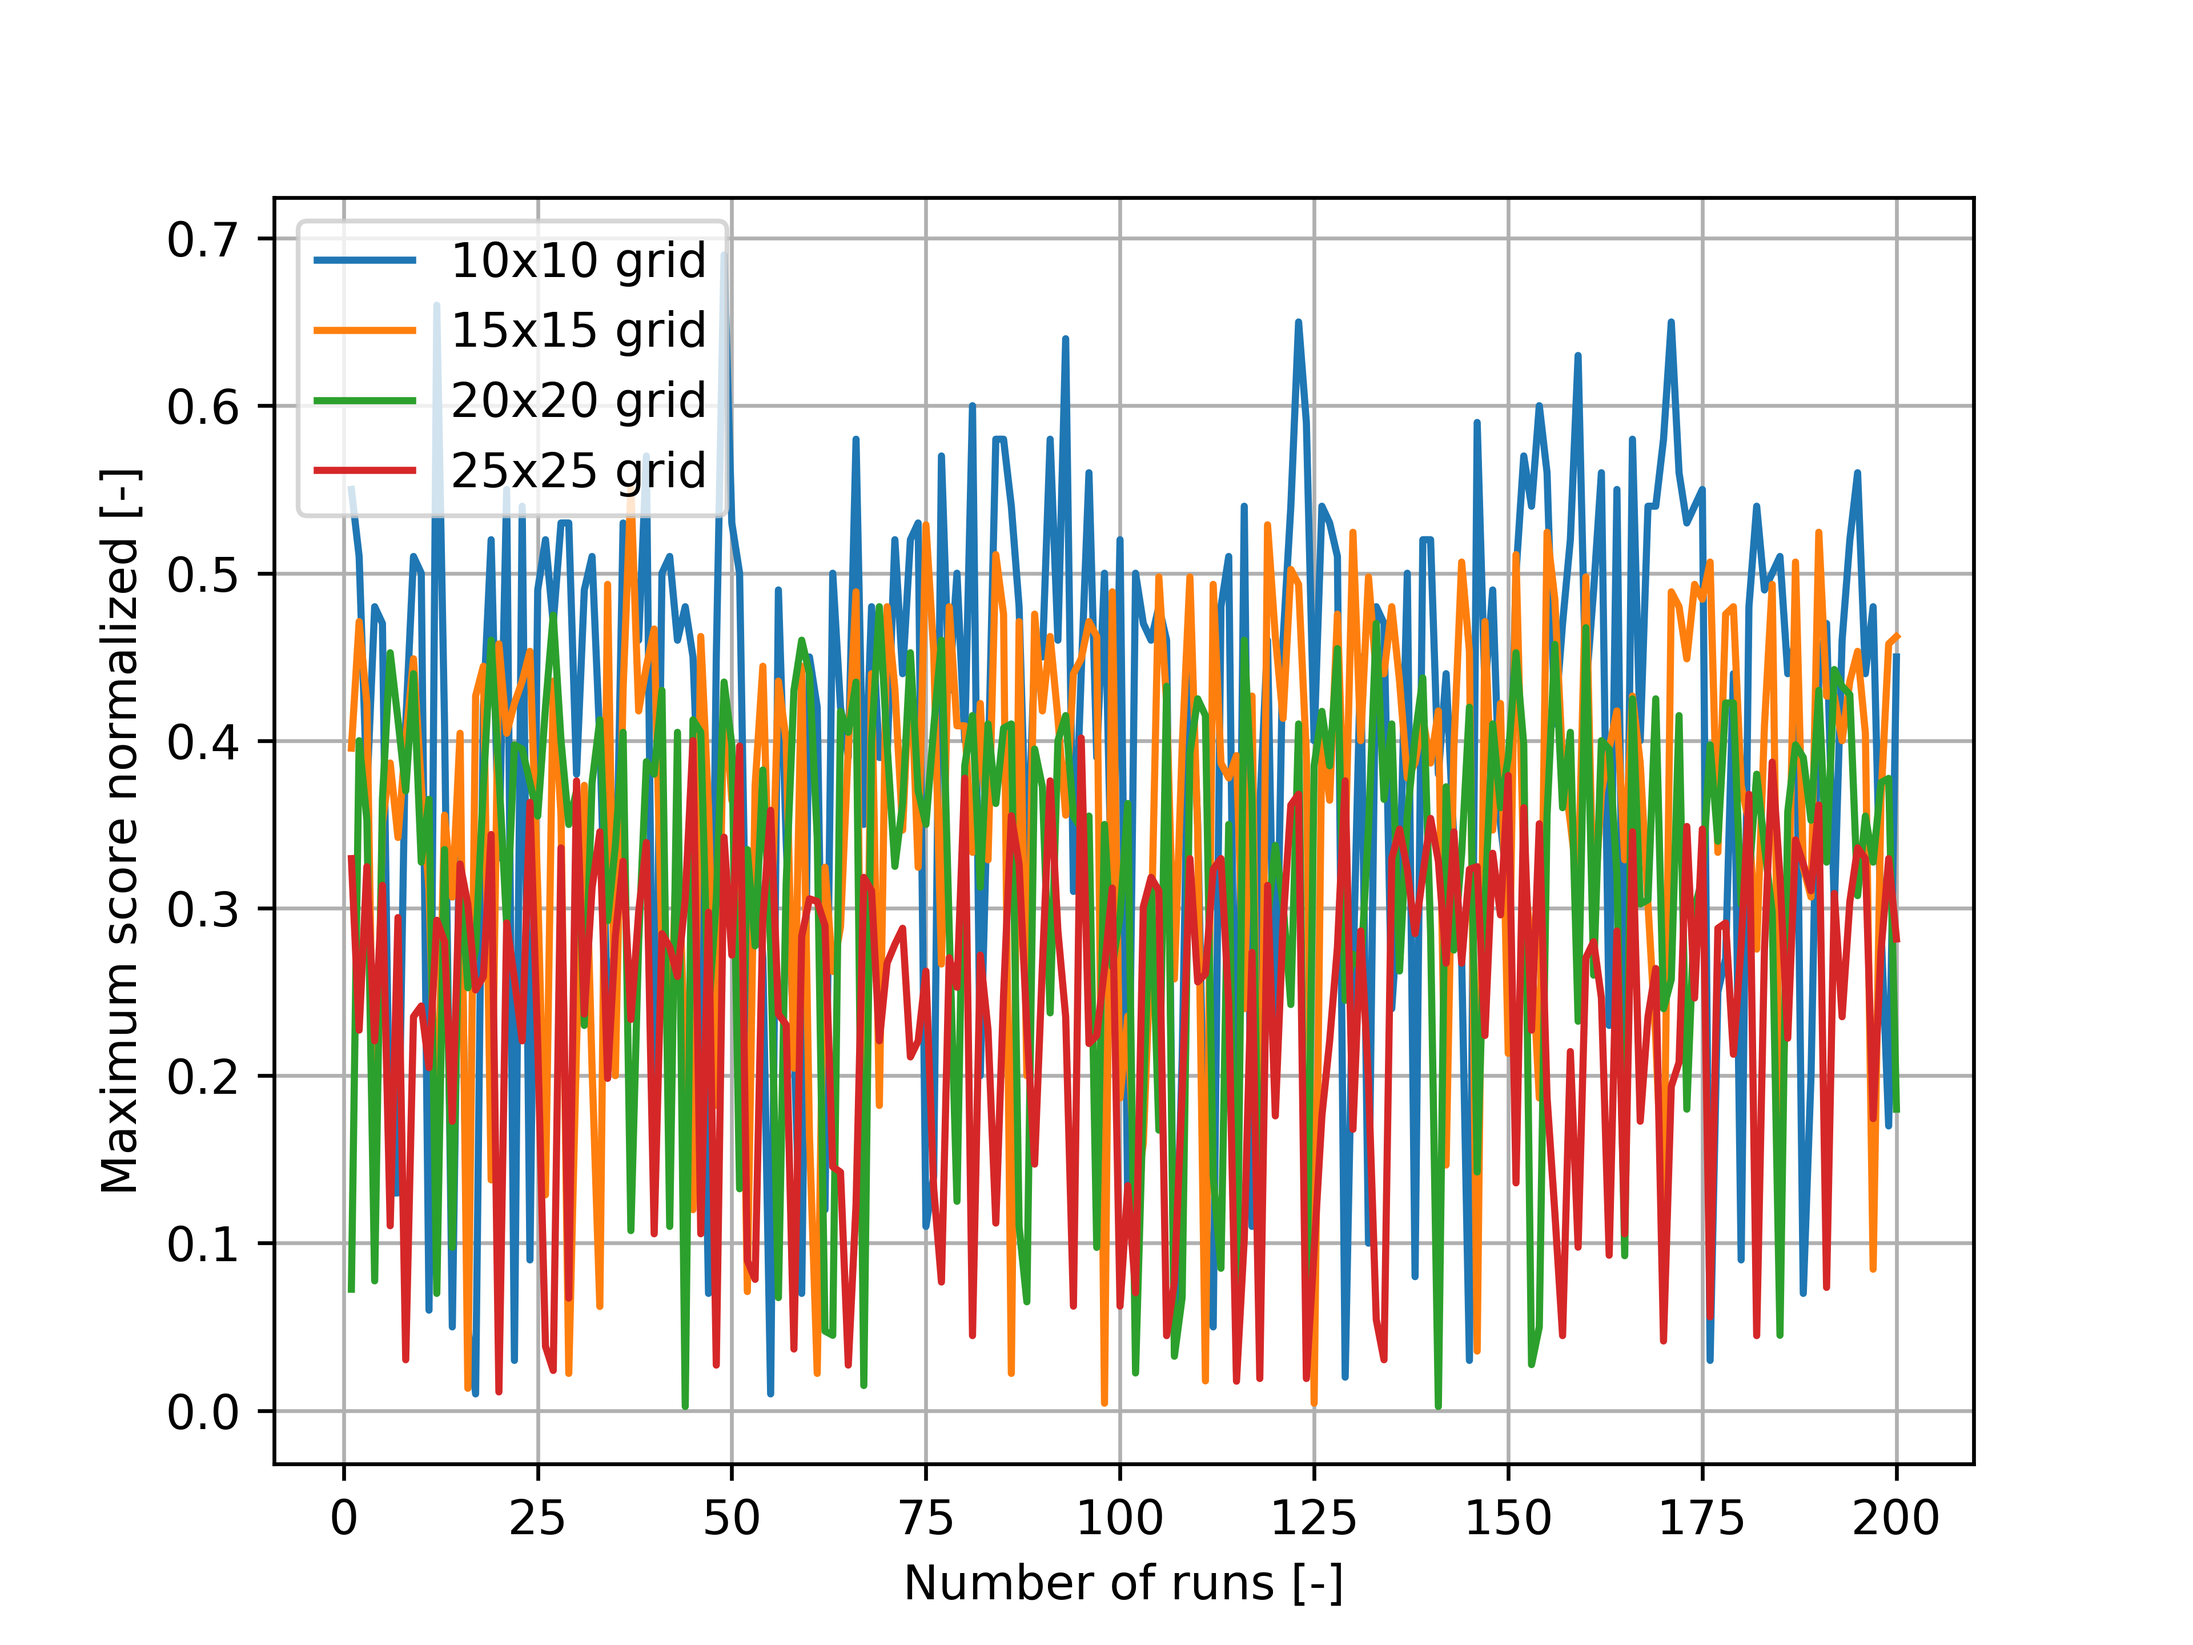
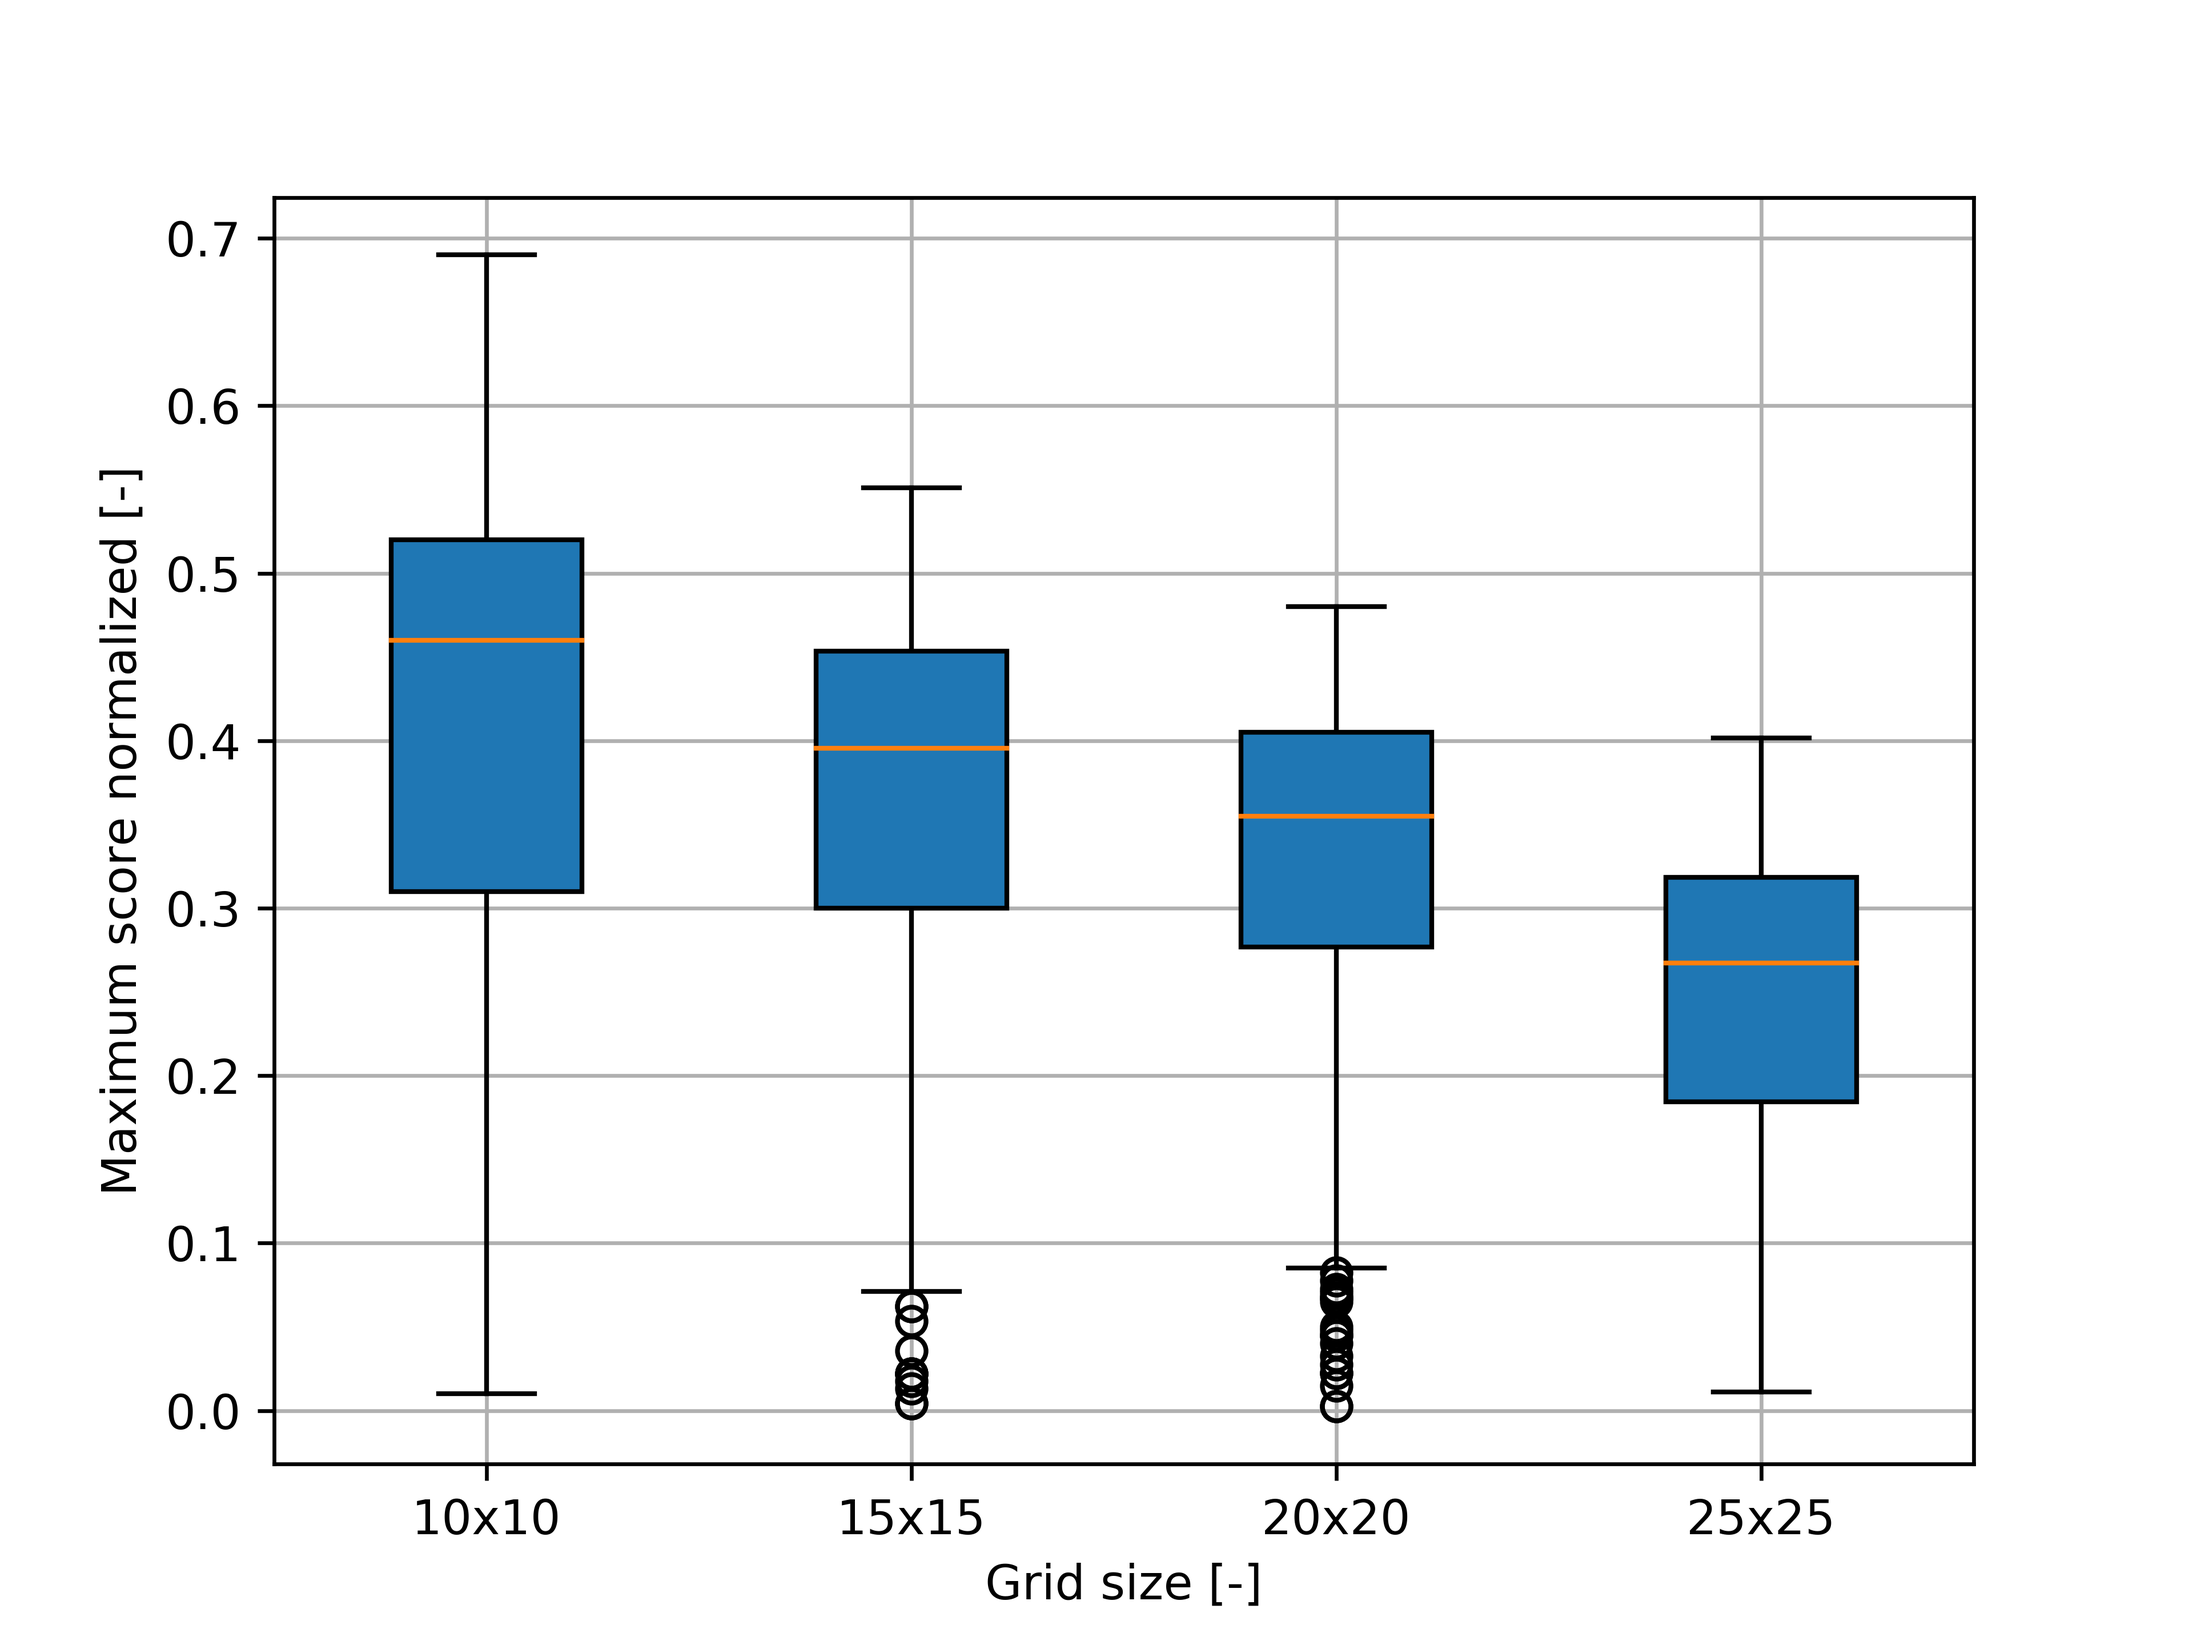
changed grid plots

diff --git a/grid_analysis.py b/grid_analysis.py
@@ -10,7 +10,7 @@ import matplotlib.pyplot as plt
 
 path = 'Saved/Performance_Data/'
 savepath = 'Saved/Model_7462/Images/' 
-save = 1
+save = 0
 
 file1 = open(path + 'performance_10x10.txt', 'r')
 file2 = open(path + 'performance_15x15.txt', 'r')
@@ -45,14 +45,11 @@ for line in lines4:
 	data = line.strip('\n').split(',')
 	score_normalized4.append(int(data[1])/(25*25))
 
-plt.plot(snake, score_normalized1, label='10x10 grid')
-plt.plot(snake, score_normalized2, label='15x15 grid')
-plt.plot(snake, score_normalized3, label='20x20 grid')
-plt.plot(snake, score_normalized4, label='25x25 grid')
-plt.xlabel('Number of runs [-]')
+box_plot_data = [score_normalized1, score_normalized2, score_normalized3, score_normalized4]
+plt.boxplot(box_plot_data, patch_artist=True,labels=['10x10','15x15','20x20','25x25'], showfliers=True)
+plt.xlabel('Grid size [-]')
 plt.ylabel('Maximum score normalized [-]')
 plt.grid()
-plt.legend(loc=2)
 
 if save:
 	plt.savefig(savepath + 'sensitivity3.png', dpi=600)

diff --git a/sensitivity.py b/sensitivity.py
@@ -10,7 +10,7 @@ import matplotlib.pyplot as plt
 
 path  		= 'Saved/Performance_Data/'
 savepath 	= 'Saved/Model_7462/Images/' 
-save  		= 1
+save  		= 0
 
 file1 = open(path + 'training_data_500_0.01.txt', 'r')
 file2 = open(path + 'training_data_500_0.02.txt', 'r')

diff --git a/performance.py b/performance.py
@@ -7,7 +7,7 @@ the performance of the algorithm.
 import numpy as np
 import matplotlib.pyplot as plt 
 
-save 	= 1
+save 	= 0
 
 path 	= 'Saved/Model_7462/'
 savepath = 'Saved/Model_7462/Images/' 
